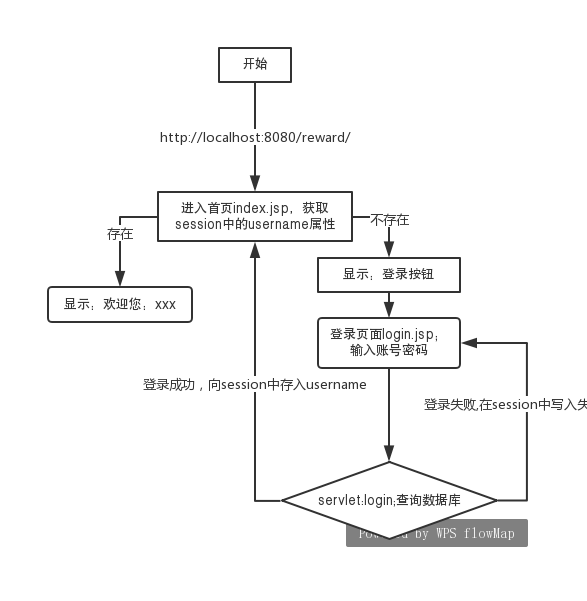
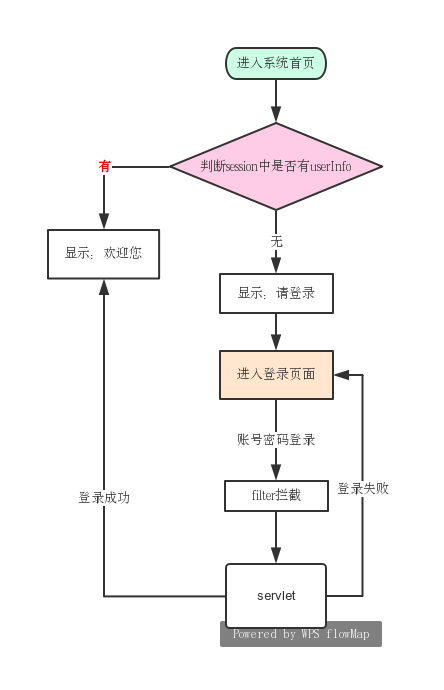
使用C3P0连接数据库；使用DBUtiles进行CRUD；完成自动登录功能；

Changed region(s): [[0.0586, 0.0599, 1.0, 0.9584], [0.1757, 0.6889, 0.2928, 0.7488]]

diff --git a/src/wangcf/filter/AutoLogin.java b/src/wangcf/filter/AutoLogin.java
@@ -20,17 +20,6 @@ import java.sql.SQLException;
 public class AutoLogin implements Filter {
 
     /**
-     * AutoLogin Filter的自动登录功能，只在进入首页时有效
-     * 检查session是否存在，确认其是否登录
-     * 若未登录再判断cookie中是否有autoLogin属性
-     * 然后用autoLogin中的账号密码尝试登录
-     * 登录成功则设置用户信息的session
-     * 登录成功与否都会进入相应的页面
-     * <p>
-     * 另外需要新增一个 Filter的功能，拦截请求
-     * 进入与个人相关的页面时，需要先判断session，确定其是否登录
-     * 未登录，则先跳转到 登录页面
-     * 已登录，才可以进入相应页面
      *
      * @param servletRequest
      * @param servletResponse

diff --git a/src/wangcf/servlet/Login.java b/src/wangcf/servlet/Login.java
@@ -39,7 +39,7 @@ public class Login extends HttpServlet {
                 if (AUTO_LOGIN.equals(autoLogin)) {
                     Cookie cookie = new Cookie("autoLogin", userInfo.getUserid() + "#" + userInfo.getPassword());
                     cookie.setMaxAge(60 * 60 * 24 * 7);
-                    cookie.setPath("/login");
+                    //cookie.setPath("/login");
                     resp.addCookie(cookie);
                 }
                 //登录成功，设置session并且跳转到首页

diff --git a/README.md b/README.md
@@ -1,6 +1,15 @@
 # 文档说明
 
-该项目实现了用户登录；用户个人的悬赏发布、查看、修改、删除；
+该项目使用了C3P0连接数据库,可以创建连接池
+
+使用DBUtiles来处理CRUD，只需将C3P0创建的ComboPooledDataSource (实现DataSourse接口)
+
+实现了自动登录功能
+
+```
+QueryRunner qr = new QueryRunner(new ComboPooledDataSource());
+```
+
 
 ## 1.1自动登录
 
@@ -9,13 +18,55 @@
 
  ![流程](img/流程.jpg)
  
+ autoLogin filter说明：
+ 
+- 在登录页面可以选择自动登录的CheckBox
+- autoLogin Filter的自动登录功能，只在进入首页时有效
+- 检查session是否存在，确认其是否登录
+- 若未登录再判断cookie中是否有autoLogin属性
+- 然后用autoLogin中的账号密码尝试登录
+- 登录成功则设置用户信息的session
+- 登录成功与否都会进入相应的页面
+
+login servlet说明：
+
+- 根据账号密码查询数据库，确认是否登录成功
+- 成功后将userInfo存入session，否则返回登录页
+- 如果选择自动登录，那么将账号密码存到cookie中（明文存储，有安全问题）
+
+
+其它filter说明：
+- 另外需要新增一个 Filter的功能，拦截请求
+- 进入与个人相关的页面时，需要先判断session，确定其是否登录
+- 未登录，则先跳转到 登录页面
+- 已登录，才可以进入相应页面
+ 
 ### 练习内容
 
 1. 数据库连接池`C3P0`
 2. `DBUtiles`,对CRUD封装,原生JDBC返回`ResultSet`,需要自定义转换方案；使用DBUtiles可以很容易地得到实体类对象
 3. 使用Filter实现自动登录，同时使用到了cookie和session
+4. cookie.setPath("/login");限制的方法使用场景需了解；
+
+```
+Cookie cookie = new Cookie("autoLogin", userInfo.getUserid() + "#" + userInfo.getPassword());
+cookie.setMaxAge(60 * 60 * 24 * 7);
+//cookie.setPath("/login");
+resp.addCookie(cookie);
+```
+
 
 ## BUG
+
+### 问题0：
+
+`java.lang.ClassNotFoundException: com.mysql.jdbc.Driver`
+ 在java程序中，直接导入连接mysql的jar包即可； 但是在java web项目中，需要将mysql的jar放到Tomcat的包lib文件夹下，否则找不到
+ 
+ 放置到tomcat中确实解决了问题，但是放在lib中以正确的方式添加到项目中即可；
+ 
+ 说明是将第三方包添加到项目的方式有问题
+
 
 ### 问题1：
 
@@ -61,6 +112,8 @@ java.lang.ClassNotFoundException: com.mysql.jdbc.Driver
 最后用eclipse运行了该项目，没有出现问题
 
 再次重新部署到idea中，将依赖包加入项目的方式可能做了修改，然后就成功运行了
+
+结论：第三方jar包加入项目中的方式要正确
  
  ## lib配置
  
